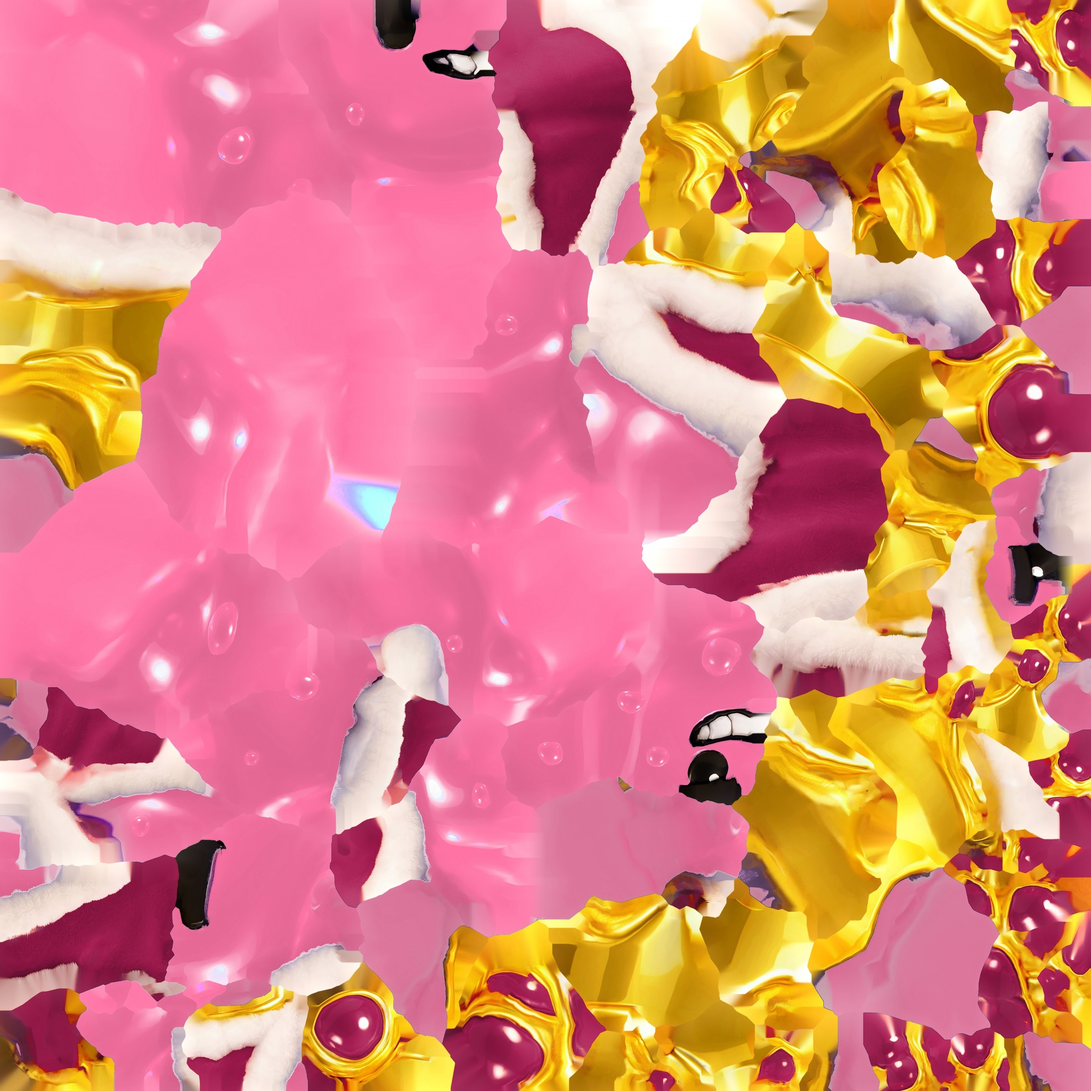
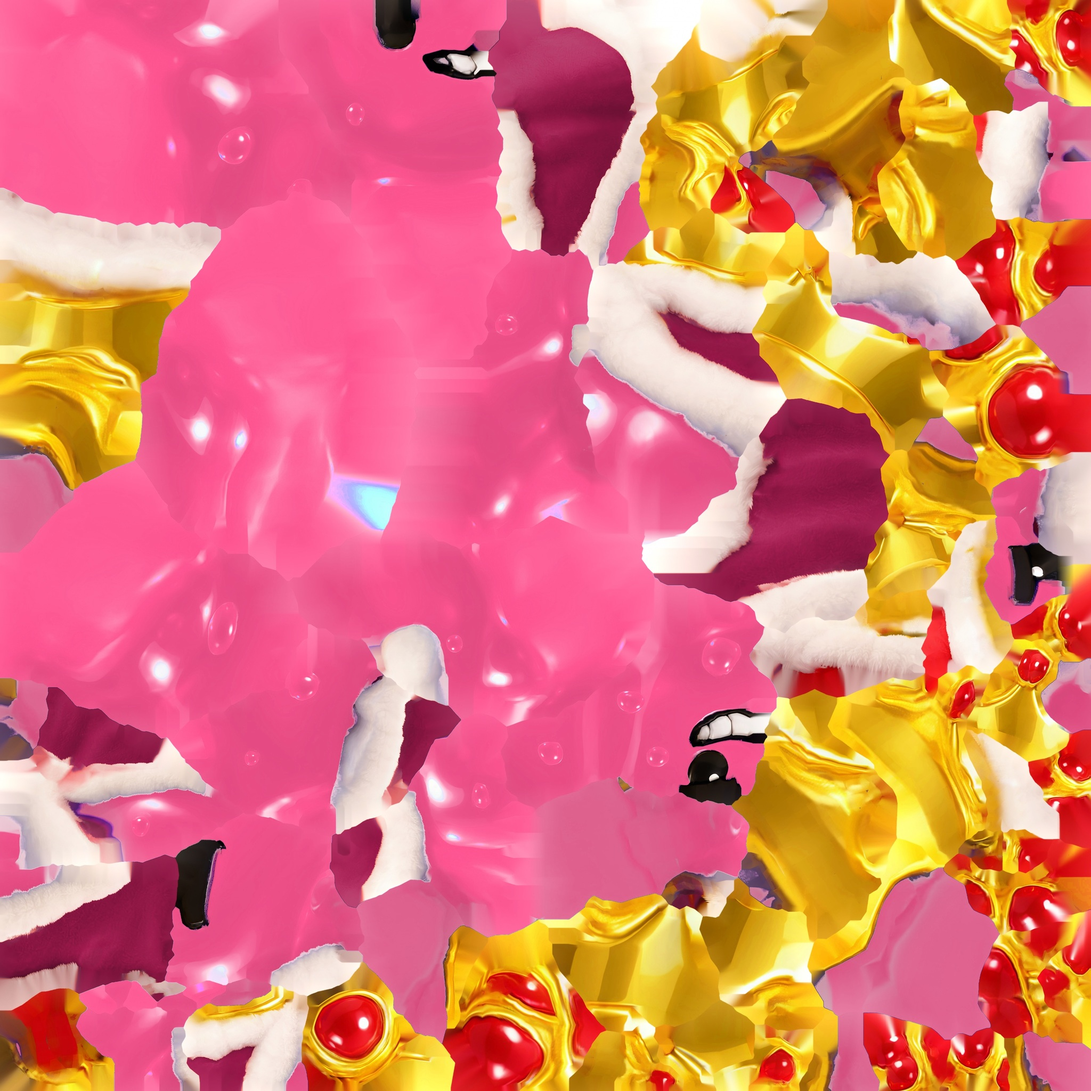
King Slime 분홍판 v2: 분홍 더 밝고 선명 + 보석만 원래 빨강 복원 + 시트

diff --git a/tools/img2/recolor_king_pink.py b/tools/img2/recolor_king_pink.py
@@ -1,20 +1,42 @@
 import numpy as np, sys
 from PIL import Image
+from scipy import ndimage
 src,out=sys.argv[1],sys.argv[2]
 im=Image.open(src).convert('RGB')
 hsv=np.asarray(im.convert('HSV')).astype(np.float32)
 H=hsv[...,0]*360/255; S=hsv[...,1]/255; V=hsv[...,2]/255
-def band(h,lo,hi,soft):
-    return np.clip((h-(lo-soft))/soft,0,1)*np.clip(((hi+soft)-h)/soft,0,1)
+def band(h,lo,hi,soft): return np.clip((h-(lo-soft))/soft,0,1)*np.clip(((hi+soft)-h)/soft,0,1)
 wb=band(H,200,260,20)*np.clip((S-0.07)/0.12,0,1)*np.clip((V-0.08)/0.1,0,1)
 Hr=np.where(H>180,H-360,H)
 wr=band(Hr,-25,15,12)*np.clip((S-0.55)/0.15,0,1)*np.clip((V-0.25)/0.15,0,1)
-def circ(h,target,w): return (h+((target-h+540)%360-180)*w)%360
-Hn=circ(H,340.0,wb); Hn=circ(Hn,338.0,wr)
-Sn=S*(1-wb)+np.clip(S*0.55,0,1)*wb
-Vn=V*(1-wb)+np.clip(0.62+0.38*V,0,1)*wb
-Sn=Sn*(1-wr)+np.clip(S*0.85,0,1)*wr
-Vn=Vn*(1-wr)+np.clip(V*0.74,0,1)*wr
+# gem detection: red components whose surroundings are mostly gold
+red=wr>0.3
+gold=(H>30)&(H<65)&(S>0.45)&(V>0.4)
+red_d=ndimage.binary_closing(red,iterations=3)
+lab,n=ndimage.label(red_d)
+sizes=ndimage.sum(np.ones_like(lab),lab,range(1,n+1))
+ring_gold=np.zeros(n+1)
+dil=ndimage.maximum_filter  # placeholder
+gem=np.zeros(red.shape,bool)
+objs=ndimage.find_objects(lab)
+for i,sl in enumerate(objs,1):
+    if sl is None: continue
+    y0,y1=max(sl[0].start-40,0),min(sl[0].stop+40,lab.shape[0]); x0,x1=max(sl[1].start-40,0),min(sl[1].stop+40,lab.shape[1])
+    m=lab[y0:y1,x0:x1]==i
+    ring=ndimage.binary_dilation(m,iterations=25)&~ndimage.binary_dilation(m,iterations=4)
+    g=gold[y0:y1,x0:x1][ring].mean() if ring.any() else 0
+    if g>0.30 and sizes[i-1]<250000: gem[sl][m[sl[0].start-y0:sl[0].stop-y0, sl[1].start-x0:sl[1].stop-x0]]=True
+gem=ndimage.binary_dilation(gem,iterations=6)
+wr_c=wr*(~gem)   # cape-only red
+sat=float(sys.argv[3]) if len(sys.argv)>3 else 1.0
+def circ(h,t,w): return (h+((t-h+540)%360-180)*w)%360
+Hn=circ(H,340.0,wb); Hn=circ(Hn,338.0,wr_c)
+Sb=np.clip(S*0.55*1.0+0.0,0,1); Sb=np.clip(Sb*1.22,0,1)   # +22% more saturated pink body
+Vb=np.clip(0.66+0.34*V,0,1)
+Sn=S*(1-wb)+Sb*wb; Vn=V*(1-wb)+Vb*wb
+Sn=Sn*(1-wr_c)+np.clip(S*0.85,0,1)*wr_c; Vn=Vn*(1-wr_c)+np.clip(V*0.74,0,1)*wr_c
 o=np.stack([Hn*255/360,Sn*255,Vn*255],-1).clip(0,255).astype(np.uint8)
-Image.fromarray(o,'HSV').convert('RGB').save(out,quality=94)
-print('ok',out,'blue px %.1f%% red px %.1f%%'%(100*(wb>0.5).mean(),100*(wr>0.5).mean()))
+res=Image.fromarray(o,'HSV').convert('RGB')
+res.save(out,quality=94)
+Image.fromarray((gem*255).astype(np.uint8)).resize((1024,1024)).save(out.replace('.jpg','_gemmask.png'))
+print('gem px %.2f%% comps %d'%(100*gem.mean(),n))
